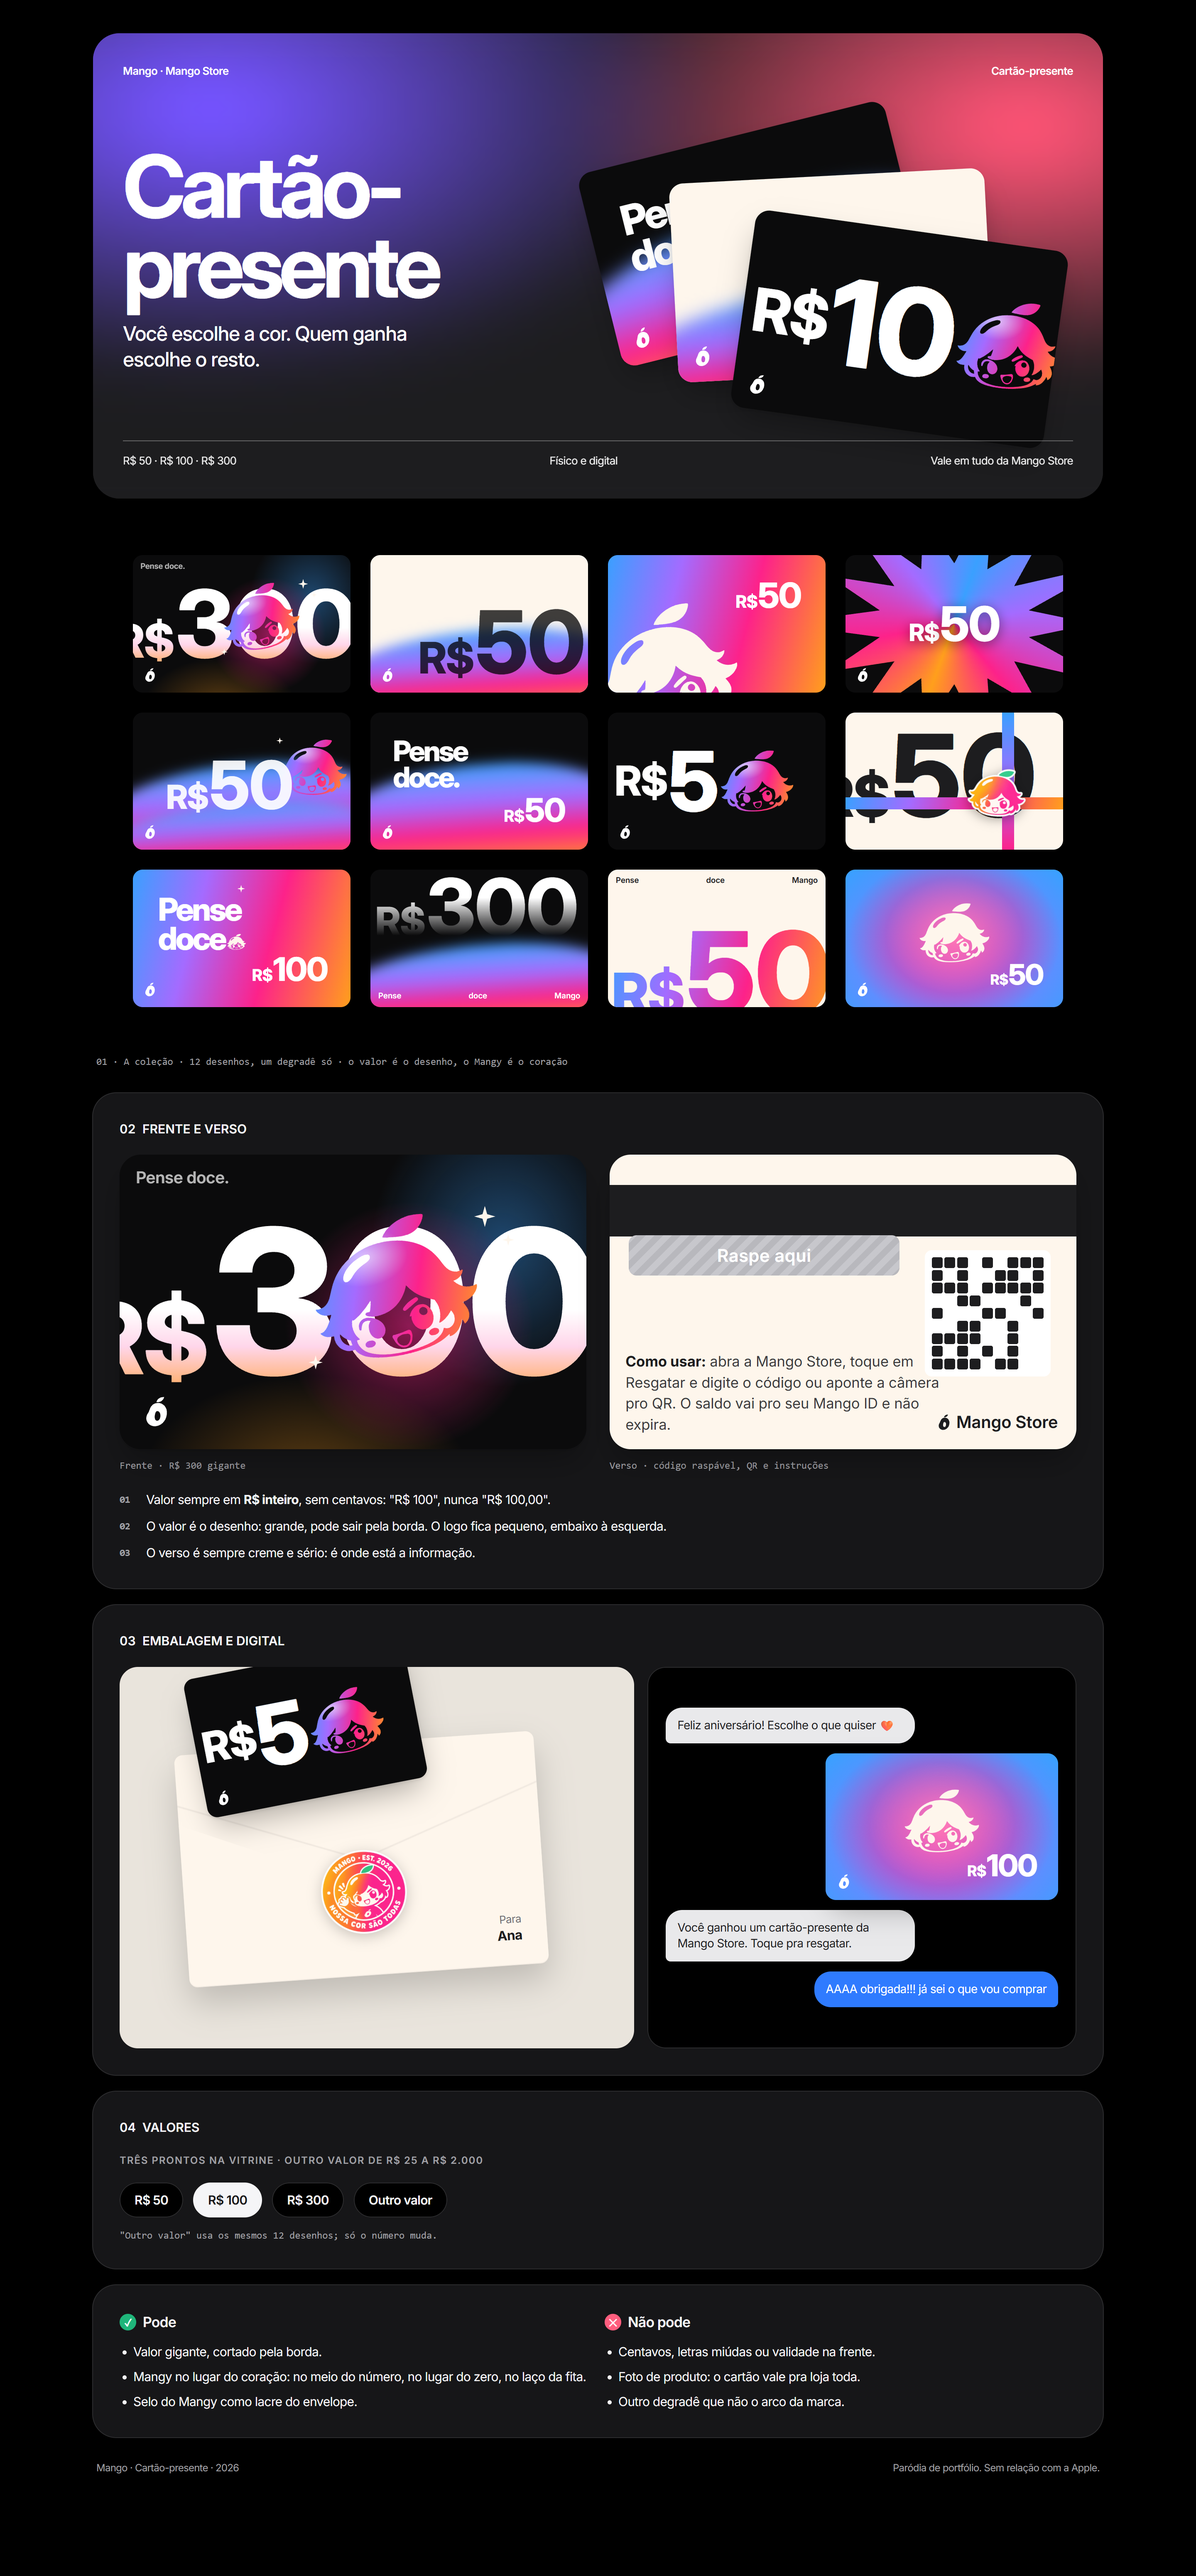
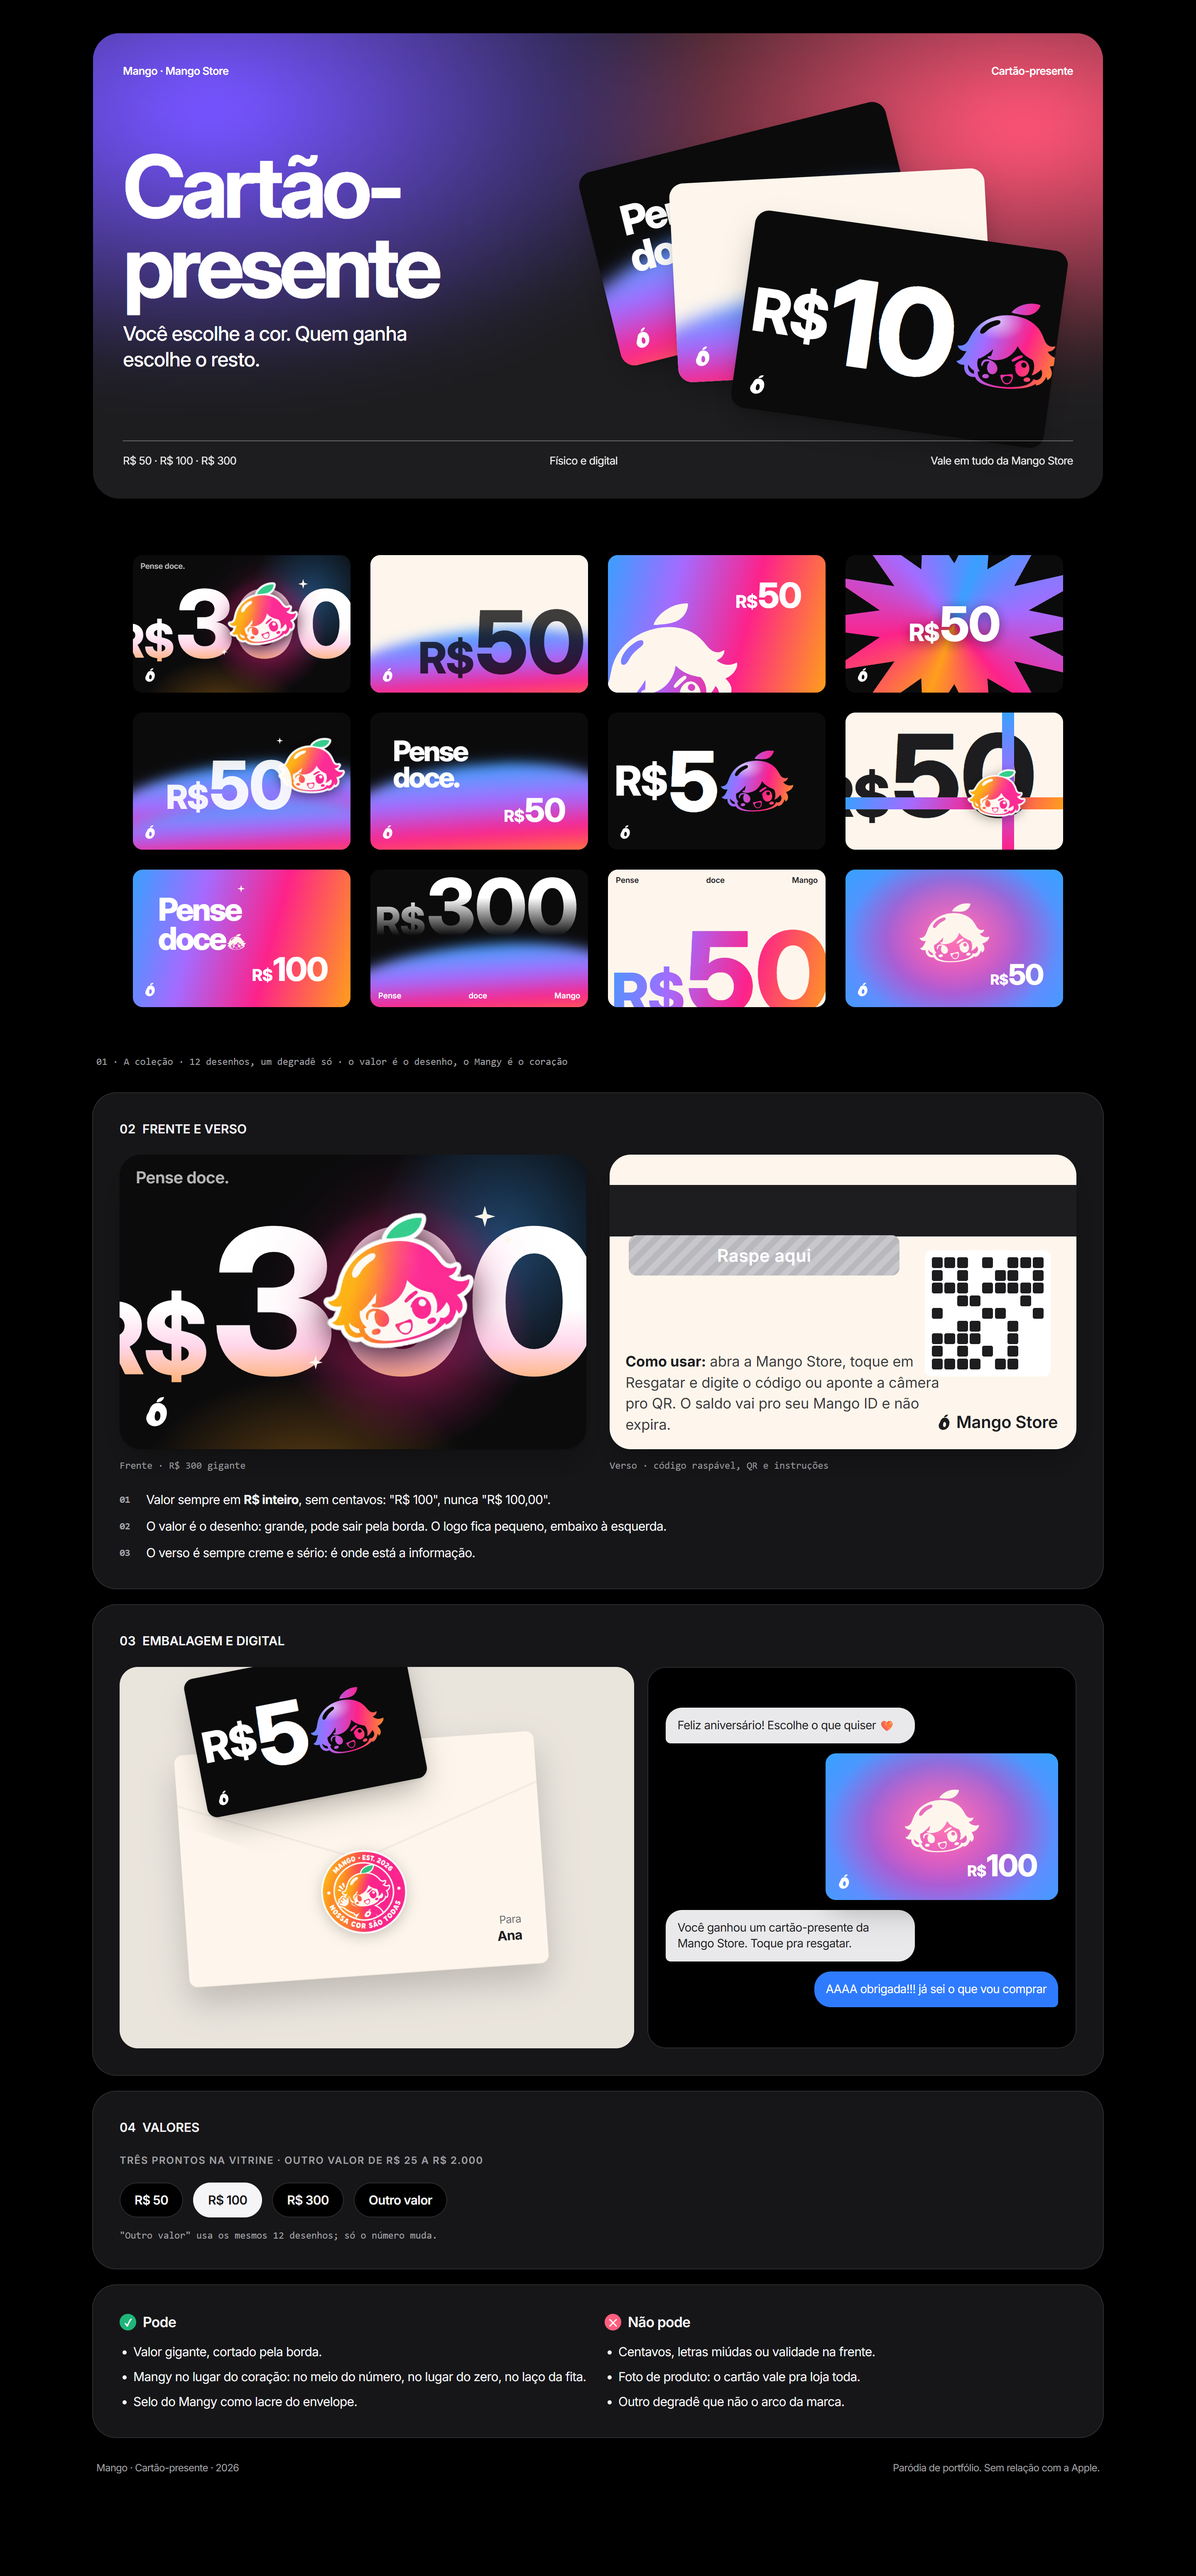
fix(marca): Mangy visível nos cartões #1 e #5 (adesivo colorido)

Changed region(s): [[0.25, 0.4669, 0.4375, 0.5603], [0.1875, 0.2179, 0.2812, 0.3113]]

diff --git a/escolhas/marca/cartoes.html b/escolhas/marca/cartoes.html
@@ -219,7 +219,7 @@ const DESENHOS = [
   // 1 valor gigante no preto, Mangy no meio dos números
   ['', v => `<span style="inset:0;background:radial-gradient(38% 60% at 62% 58%,#fd228a88,transparent 70%),radial-gradient(40% 70% at 82% 30%,#3aa0ff66,transparent 70%),radial-gradient(50% 50% at 40% 110%,#ff9f1c55,transparent 70%)"></span>`
     + `<span class="v luz-baixo" style="left:-.2em;top:50%;transform:translateY(-50%);font-size:8.6em">${RS(v)}</span>`
-    + `${head('', 'left:8.3em;top:2.7em;width:7em;transform:rotate(-8deg);filter:drop-shadow(0 .3em .7em #000a) drop-shadow(0 0 1.2em #fd228a99)')}`
+    + `${stk('left:8.6em;top:2.6em;width:6.6em;transform:rotate(-8deg);filter:drop-shadow(0 .35em .7em #000c) drop-shadow(0 0 1.4em #fd228a88)')}`
     + `<span class="brilho" style="left:15.2em;top:2.2em"></span><span class="brilho" style="left:16.4em;top:3.4em;width:.5em"></span><span class="brilho" style="left:8.1em;top:8.6em;width:.6em"></span>`
     + `<span class="espaco" style="right:auto;font-size:.7em;opacity:.7"><span>Pense doce.</span></span><span class="marquinha"></span>`],
   // 2 creme com a onda subindo por trás do número
@@ -229,7 +229,7 @@ const DESENHOS = [
   // 4 explosão
   ['', v => `<span class="explosao"></span><span class="v" style="left:50%;top:50%;transform:translate(-50%,-50%);font-size:4.4em;text-shadow:0 .05em .25em #0007">${RS(v)}</span><span class="marquinha"></span>`],
   // 5 número claro afundando na onda
-  ['', v => `<span class="onda"></span>${head('', 'left:13.5em;top:2.4em;width:6.2em;transform:rotate(6deg);filter:drop-shadow(0 0 1em #fd228aaa)')}<span class="onda" style="top:66%;opacity:.95"></span><span class="v" style="left:.5em;top:.7em;font-size:6.1em;color:rgba(255,255,255,.92)">${RS(v)}</span><span class="brilho" style="left:13.2em;top:2.3em;width:.6em"></span><span class="marquinha"></span>`],
+  ['', v => `<span class="onda"></span>${stk('left:13.4em;top:2.2em;width:6.2em;transform:rotate(6deg);filter:drop-shadow(0 .3em .6em #0009)')}<span class="onda" style="top:66%;opacity:.95"></span><span class="v" style="left:.5em;top:.7em;font-size:6.1em;color:rgba(255,255,255,.92)">${RS(v)}</span><span class="brilho" style="left:13.2em;top:2.3em;width:.6em"></span><span class="marquinha"></span>`],
   // 6 slogan + onda
   ['', v => `<span class="onda"></span><span class="frase" style="left:.8em;top:.9em;font-size:2.6em">Pense<br>doce.</span><span class="v" style="right:.7em;bottom:.8em;font-size:3em">${RS(v)}</span><span class="marquinha"></span>`],
   // 7 o Mangy é o zero
